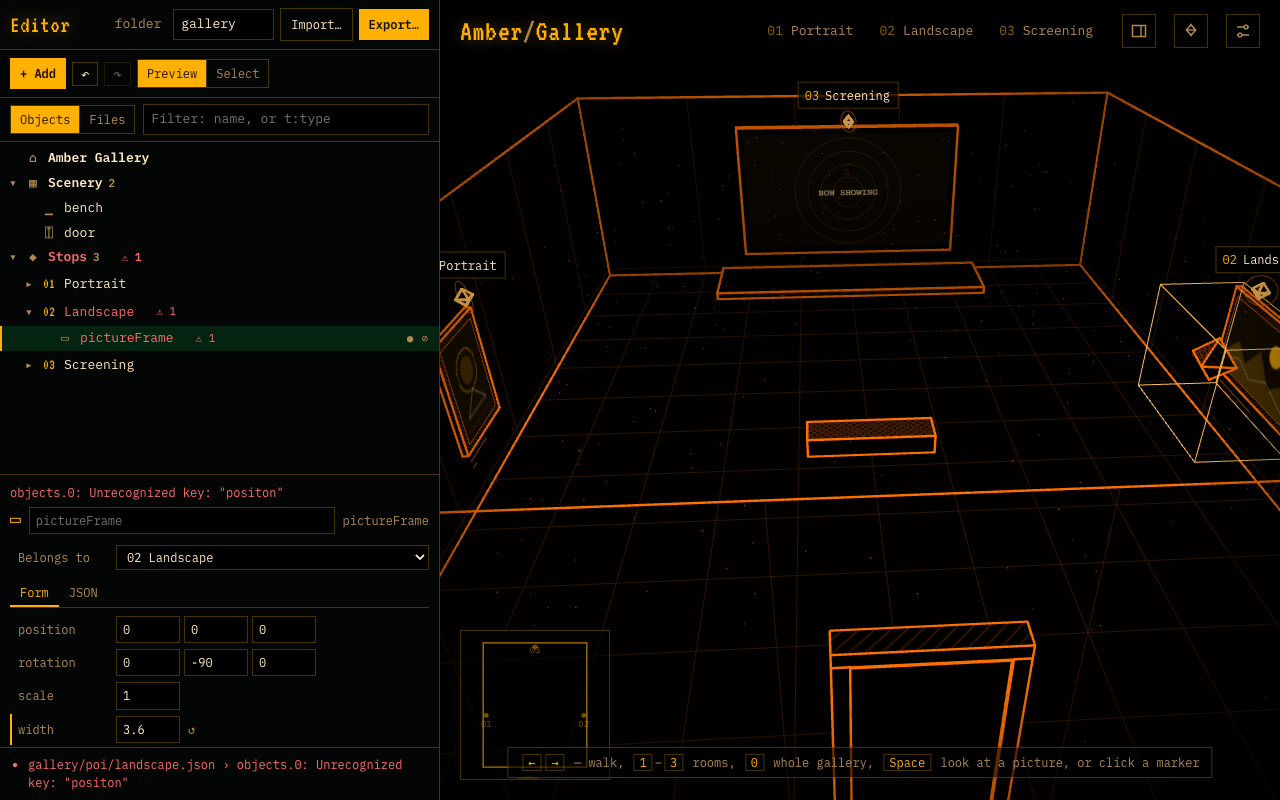
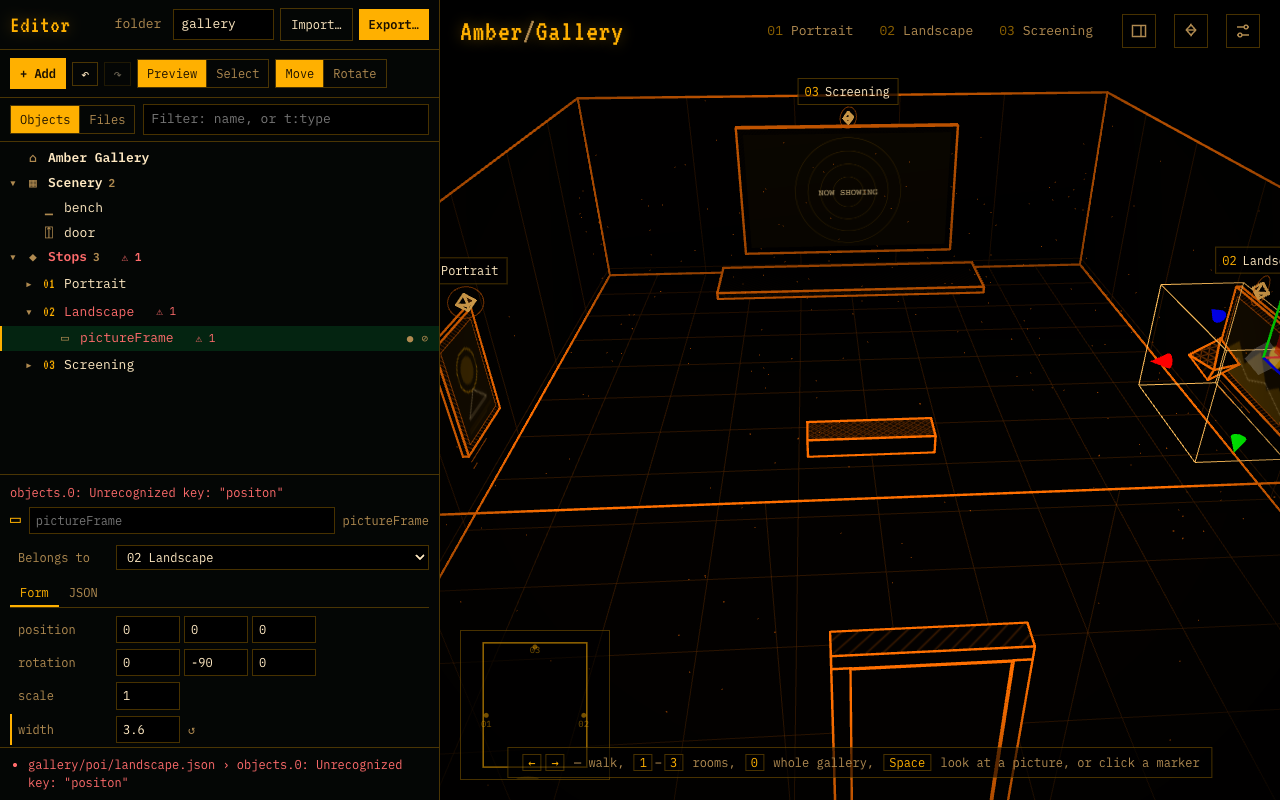
Add gizmo for moving objects around

diff --git a/src/scene/Gizmo.jsx b/src/scene/Gizmo.jsx
@@ -1,0 +1,103 @@
+import { useEffect, useMemo, useRef } from 'react';
+import { useFrame, useThree } from '@react-three/fiber';
+import * as THREE from 'three';
+import { TransformControls } from 'three/addons/controls/TransformControls.js';
+import { useStore, editGroups } from '../state/store.js';
+import { configRotation } from '../lib/math.js';
+
+const MOVE_SNAP = 0.1, TURN_SNAP = THREE.MathUtils.degToRad(15);
+const isObjectKey = k => typeof k === 'string' && !k.startsWith('stop:') && /:\d+$/.test(k);
+const r2 = v => { const n = Math.round(v * 100) / 100; return Object.is(n, -0) ? 0 : n; };
+
+/**
+ * The editor's handles on the selected object (three.js TransformControls): arrows and planes to move it along the
+ * room's axes, or rings to turn it (`edit.tool`, Move or Rotate). Moves snap to 10 cm and turns to 15°; Shift drags
+ * freely; Esc puts the object back mid-drag. On release the editor writes the new `position` / `rotation` into the
+ * object's file (`edit.transform`), one undo step. A drag on a handle never reaches the room: no selection, no
+ * swipe to another stop. Loaded only by the editor (src/scene/Experience.jsx), so the viewer's bundle has none of it.
+ */
+export function Gizmo() {
+  const { camera, gl } = useThree();
+  const selected = useStore(s => s.edit?.selected);
+  const tool = useStore(s => s.edit?.tool ?? 'move');
+  const zoomed = useStore(s => s.zoom != null);
+  const tc = useMemo(() => {
+    const t = new TransformControls(camera, gl.domElement);
+    t.setSpace('world');
+    t.setSize(0.9);
+    return t;
+  }, [camera, gl]);
+  const drag = useRef(null); // { key, position, rotation } at the start of a drag
+
+  useEffect(() => () => { tc.detach(); tc.dispose(); }, [tc]);
+  useEffect(() => { tc.setMode(tool === 'rotate' ? 'rotate' : 'translate'); }, [tc, tool]);
+
+  useEffect(() => {
+    const snap = free => { tc.setTranslationSnap(free ? null : MOVE_SNAP); tc.setRotationSnap(free ? null : TURN_SNAP); };
+    snap(false);
+    const onKey = e => {
+      if (e.key === 'Shift') snap(e.type === 'keydown');
+      else if (e.key === 'Escape' && e.type === 'keydown' && tc.dragging) { tc.reset(); tc.pointerUp(null); }
+    };
+    const onBlur = () => snap(false);
+    addEventListener('keydown', onKey);
+    addEventListener('keyup', onKey);
+    addEventListener('blur', onBlur);
+    return () => { removeEventListener('keydown', onKey); removeEventListener('keyup', onKey); removeEventListener('blur', onBlur); };
+  }, [tc]);
+
+  // a press on a handle is the gizmo's alone: TransformControls listens on the canvas itself, and these run after it there,
+  // so they can keep the press, its release and its click from the room's own handlers further up (R3F, swipes)
+  useEffect(() => {
+    const el = gl.domElement;
+    let busy = false;
+    const down = e => { if (tc.dragging) { busy = true; e.stopPropagation(); } };
+    const up = e => { if (busy) e.stopPropagation(); };
+    const click = e => { if (busy) { busy = false; e.stopPropagation(); } };
+    const hover = () => { if (tc.axis && !tc.dragging) document.body.style.cursor = 'grab'; };
+    el.addEventListener('pointerdown', down);
+    el.addEventListener('pointerup', up);
+    el.addEventListener('click', click);
+    el.addEventListener('pointermove', hover);
+    return () => {
+      el.removeEventListener('pointerdown', down);
+      el.removeEventListener('pointerup', up);
+      el.removeEventListener('click', click);
+      el.removeEventListener('pointermove', hover);
+    };
+  }, [tc, gl]);
+
+  useEffect(() => {
+    const onDown = () => {
+      const g = tc.object;
+      drag.current = g && { key: useStore.getState().edit?.selected, position: g.position.clone(), rotation: g.rotation.clone() };
+      document.body.style.cursor = 'grabbing';
+    };
+    const onUp = () => {
+      document.body.style.cursor = '';
+      const g = tc.object, start = drag.current;
+      drag.current = null;
+      if (!g || !start) return;
+      const moved = !g.position.equals(start.position), turned = !g.rotation.equals(start.rotation);
+      if (!moved && !turned) return;
+      const ok = useStore.getState().edit?.transform?.(start.key, {
+        position: moved ? g.position.toArray().map(r2) : undefined,
+        rotation: turned ? configRotation(g.rotation) : undefined,
+      });
+      // the file could not take it (it does not parse): the object goes back to what the file says
+      if (ok === false) { g.position.copy(start.position); g.rotation.copy(start.rotation); }
+    };
+    tc.addEventListener('mouseDown', onDown);
+    tc.addEventListener('mouseUp', onUp);
+    return () => { tc.removeEventListener('mouseDown', onDown); tc.removeEventListener('mouseUp', onUp); };
+  }, [tc]);
+
+  // follow the selection: the object's group can be replaced when the scene is rebuilt
+  useFrame(() => {
+    const g = !zoomed && isObjectKey(selected) ? editGroups.get(selected) : undefined;
+    if (g === tc.object || tc.dragging) return;
+    if (g) tc.attach(g); else tc.detach();
+  });
+
+  return <primitive object={tc.getHelper()} />;
+}

diff --git a/src/editor/EditorApp.jsx b/src/editor/EditorApp.jsx
@@ -14,7 +14,7 @@ import { readZip } from './unzip.js';
 import { makeZip } from './zip.js';
 import {
   DECOR, sceneTree, errorsByKey, parseKey, objectKey, stopKey, addToScenery, moveObject, makeStop, dissolveStop, deleteStop,
-  deleteObject, duplicateObject, moveStop, renameObject, renameNewStop, setField, stopRefs, viewSpot,
+  deleteObject, duplicateObject, moveStop, renameObject, renameNewStop, setField, setObjectField, stopRefs, viewSpot,
 } from './tree.js';
 import { Tree } from './Tree.jsx';
 import { Inspector } from './Inspector.jsx';
@@ -115,7 +115,12 @@ export function EditorApp() {
 
   // the editor's hold on the preview: selection, hover, hidden and locked objects, Preview / Select mode
   useEffect(() => {
-    useStore.setState({ edit: { mode: 'preview', selected: null, hovered: null, hidden: new Set(), locked: new Set(), frame } });
+    useStore.setState({
+      edit: {
+        mode: 'preview', tool: 'move', selected: null, hovered: null, hidden: new Set(), locked: new Set(), frame,
+        transform: (key, value) => keys.current.transform(key, value),
+      },
+    });
     return () => useStore.setState({ edit: null });
   }, []);
 
@@ -526,15 +531,29 @@ export function EditorApp() {
   const setMode = mode => { document.body.style.cursor = ''; useStore.getState().setEdit({ mode, hovered: null }); };
   const closeMenu = useCallback(() => setMenu(null), []);
 
-  // undo and redo anywhere on the page except while typing in a field, which has its own
-  const history = useRef(null);
-  history.current = { undo, redo };
+  const setTool = tool => useStore.getState().setEdit({ tool });
+  /** The handles in the room dropped an object: its new position and / or rotation, one undo step; false if the file refused. */
+  const transform = (key, { position, rotation }) => !!change(f => {
+    let next = f;
+    if (position) next = setObjectField(next, key, ['position'], position);
+    if (rotation) next = setObjectField(next, key, ['rotation'], rotation);
+    return { files: next, key };
+  });
+
+  // anywhere on the page except while typing in a field (which has its own undo) or in the tree (which takes letters):
+  // undo and redo, G to move and R to rotate with the handles
+  const keys = useRef(null);
+  keys.current = { undo, redo, transform };
   useEffect(() => {
     const onKey = e => {
       const tag = (e.target.tagName || '').toLowerCase();
-      if (tag === 'input' || tag === 'textarea' || tag === 'select' || !(e.metaKey || e.ctrlKey)) return;
+      if (tag === 'input' || tag === 'textarea' || tag === 'select') return;
       const k = e.key.toLowerCase();
-      if (k === 'z' && !e.shiftKey) { e.preventDefault(); history.current.undo(); } else if ((k === 'z' && e.shiftKey) || k === 'y') { e.preventDefault(); history.current.redo(); }
+      if (!(e.metaKey || e.ctrlKey)) {
+        if (!e.altKey && (k === 'g' || k === 'r')) useStore.getState().setEdit({ tool: k === 'g' ? 'move' : 'rotate' });
+        return;
+      }
+      if (k === 'z' && !e.shiftKey) { e.preventDefault(); keys.current.undo(); } else if ((k === 'z' && e.shiftKey) || k === 'y') { e.preventDefault(); keys.current.redo(); }
     };
     addEventListener('keydown', onKey);
     return () => removeEventListener('keydown', onKey);
@@ -588,8 +607,12 @@ export function EditorApp() {
             <button type="button" aria-pressed={edit?.mode !== 'select'} onClick={() => setMode('preview')} title="Clicks in the room work as for visitors: screens zoom, actions run">Preview</button>
             <button type="button" aria-pressed={edit?.mode === 'select'} onClick={() => setMode('select')} title="A click in the room selects the object under the pointer; a double-click flies to it">Select</button>
           </span>
+          <span className="seg" role="group" aria-label="What the handles on the selected object do">
+            <button type="button" aria-pressed={edit?.tool !== 'rotate'} onClick={() => setTool('move')} title="Arrows and squares on the selected object move it along the room's axes (G); Shift: no 10 cm steps">Move</button>
+            <button type="button" aria-pressed={edit?.tool === 'rotate'} onClick={() => setTool('rotate')} title="Rings on the selected object turn it (R); Shift: no 15° steps">Rotate</button>
+          </span>
           {(Object.keys(registry.extra).length > 0 || hasTransforms) && (
-            <button type="button" className="btn ghost" onClick={() => setBust(b => b + 1)} title="Import the scene's prefab and transform modules again">Reload modules</button>
+            <button type="button" className="btn ghost icon" onClick={() => setBust(b => b + 1)} title="Reload modules: import the scene's prefab and transform modules again" aria-label="Reload modules">⟳</button>
           )}
         </div>
         <div className="editor-tabs">

diff --git a/test/math.test.js b/test/math.test.js
@@ -1,6 +1,6 @@
 import { describe, it, expect } from 'vitest';
 import * as THREE from 'three';
-import { DEG, toRad, objectMatrix, circlePts, rgba } from '../src/lib/math.js';
+import { DEG, toRad, objectMatrix, circlePts, rgba, configRotation } from '../src/lib/math.js';
 
 describe('toRad', () => {
   it('converts a degree triple', () => {
@@ -40,5 +40,27 @@ describe('circlePts', () => {
 describe('rgba', () => {
   it('turns a hex colour and alpha into an rgba() string', () => {
     expect(rgba('#00ff66', 0.28)).toBe('rgba(0,255,102,0.28)');
+  });
+});
+
+describe('configRotation', () => {
+  const back = r => configRotation(new THREE.Euler().setFromQuaternion(new THREE.Quaternion().setFromEuler(new THREE.Euler(...toRad(r)))));
+
+  it('gives a yaw past 90° as a plain yaw, not with 180° tilts', () => {
+    expect(back([0, 150, 0])).toEqual([0, 150, 0]);
+    expect(back([0, -135, 0])).toEqual([0, -135, 0]);
+    expect(back([0, 180, 0])).toEqual([0, 180, 0]);
+    expect(configRotation({ x: Math.PI, y: 30 * DEG, z: Math.PI })).toEqual([0, 150, 0]);
+  });
+
+  it('keeps small rotations and tilts as they are, rounded, without -0', () => {
+    expect(back([0, -90, 0])).toEqual([0, -90, 0]);
+    expect(back([10, 20, 5])).toEqual([10, 20, 5]);
+    expect(configRotation({ x: -1e-9, y: 0, z: 0 })).toEqual([0, 0, 0]);
+  });
+
+  it('describes the same orientation', () => {
+    const q = r => new THREE.Quaternion().setFromEuler(new THREE.Euler(...toRad(r)));
+    for (const r of [[20, 170, -10], [0, 100, 30], [-45, -120, 0]]) expect(q(back(r)).angleTo(q(r))).toBeLessThan(0.01);
   });
 });

diff --git a/src/state/store.js b/src/state/store.js
@@ -41,9 +41,11 @@ export const useStore = create((set, get) => ({
   free: false,     // the visitor is flying the camera by hand (WASD, middle-drag); any navigation ends it
   confirm: null,   // an `openUrl` action waiting for the visitor's yes (the same object the scene binds, so a prefab can tell it is its own)
   /**
-   * The editor's hold on the preview; null in the viewer. `{ mode: 'preview' | 'select', selected, hovered, hidden, locked,
-   * frame(key) }`: in select mode a click picks the object under the pointer (its tree key, src/editor/tree.js) instead of
-   * zooming or running its actions; hidden objects are not drawn, locked ones let the click through to what is behind.
+   * The editor's hold on the preview; null in the viewer. `{ mode: 'preview' | 'select', tool: 'move' | 'rotate', selected,
+   * hovered, hidden, locked, frame(key), transform(key, { position?, rotation? }) }`: in select mode a click picks the object
+   * under the pointer (its tree key, src/editor/tree.js) instead of zooming or running its actions; hidden objects are not
+   * drawn, locked ones let the click through to what is behind; the selected object gets move or rotate handles
+   * (src/scene/Gizmo.jsx), whose result `transform` writes into the files (false when it could not).
    */
   edit: null,
 

diff --git a/src/scene/Experience.jsx b/src/scene/Experience.jsx
@@ -1,4 +1,4 @@
-import { useEffect, useMemo, useRef } from 'react';
+import { Suspense, lazy, useEffect, useMemo, useRef } from 'react';
 import { useFrame } from '@react-three/fiber';
 import { useStore } from '../state/store.js';
 import { WorldContext, PoiContext } from './core.jsx';
@@ -11,6 +11,9 @@ import { Telemetry } from './Telemetry.jsx';
 import { Markers } from './Markers.jsx';
 import { PlacedObject } from '../prefabs/index.jsx';
 import { EditMarks } from './EditMarks.jsx';
+
+// the editor's move / rotate handles, in a chunk of their own that only the editor loads
+const Gizmo = lazy(() => import('./Gizmo.jsx').then(m => ({ default: m.Gizmo })));
 
 /** Shader time + Matrix-rain refresh (captioned with the current POI). */
 function Ticker({ world }) {
@@ -64,6 +67,7 @@ export function Experience() {
       {pois.map(p => <PoiObjects key={p.id} poi={p} />)}
       <Markers />
       {editing && <EditMarks />}
+      {editing && <Suspense fallback={null}><Gizmo /></Suspense>}
       <Particles count={Math.round(scene.effects.particles * particles)} />
     </WorldContext.Provider>
   );

diff --git a/src/lib/math.js b/src/lib/math.js
@@ -13,6 +13,21 @@ export function objectMatrix({ position = [0, 0, 0], rotation = [0, 0, 0], scale
   );
 }
 
+const wrap = d => { const v = ((d + 180) % 360 + 360) % 360 - 180; return v === -180 ? 180 : v; };
+const tidy = d => { const v = Math.round(d * 10) / 10; return Object.is(v, -0) ? 0 : v; };
+
+/**
+ * A config rotation (degrees, XYZ) from an Euler in radians, in the form an author would write. Every rotation has two
+ * XYZ triples, (x, y, z) and (x + 180, 180 - y, z + 180); three.js gives the one with y within ±90, so an object turned
+ * to 150° comes back as [180, 30, 180]. This picks the triple with the smaller tilts, [0, 150, 0], rounded to 0.1°.
+ */
+export function configRotation({ x, y, z }) {
+  const a = [x / DEG, y / DEG, z / DEG].map(wrap);
+  const b = [wrap(a[0] + 180), wrap(180 - a[1]), wrap(a[2] + 180)];
+  const tilt = r => Math.abs(r[0]) + Math.abs(r[2]);
+  return (tilt(b) < tilt(a) - 1e-6 ? b : a).map(tidy);
+}
+
 /** Flat list of segment endpoints for a circle in the XZ plane. */
 export function circlePts(r, n, y = 0) {
   const a = [];

diff --git a/docs/guide/operator/deploy/editor.md b/docs/guide/operator/deploy/editor.md
@@ -15,6 +15,7 @@ This page explains the second page of the build, `edit.html`, and the publish fl
 | Inspector | `Inspector.jsx`, `form.js` | an object's form is generated from its prefab's zod schema (`propFields`: numbers, booleans, strings, enums; nested values and unions as JSON); a prop that differs from the default is marked and can be removed (back to the default). A JSON tab edits the object's own text. A stop's label, kicker, camera (`runtime.pose`) and marker; the room's title, brand and size |
 | Text edits | `src/editor/jsonEdit.js` | the tree and the form edit JSON through `parseTree` from `jsonc-parser`, splicing only the node they change: a replaced value keeps its old shape (one line or spread out), a new item or property follows its neighbours, and a moved object keeps its own layout, re-indented. A file that does not parse is refused with "fix it in Files first" |
 | Preview link | `useStore › edit`, `src/prefabs/index.jsx`, `src/scene/EditMarks.jsx` | the editor sets `edit` in the store (null in the viewer): `mode` (`preview` / `select`), `selected`, `hovered`, `hidden`, `locked`, `frame(key)`. Every `PlacedObject` carries its tree key; hidden ones are not drawn; in select mode a click on a surface (not a line) selects it, a locked one lets the click through, and `useHotspot` and screens stop reacting. `EditMarks` draws a box (`Box3Helper`, over everything) around the selection and the hovered object |
+| Handles in the room | `src/scene/Gizmo.jsx`, `configRotation` in `src/lib/math.js` | three.js `TransformControls` attached to the selected object's group (`editGroups`), in world space, `edit.tool` move or rotate (G / R), snapping 0.1 m and 15° unless Shift is held, Esc resets mid-drag. Listeners on the canvas, after the controls' own, stop a press on a handle from reaching R3F (no selection, no `onPointerMissed`) and `useInput` (no swipe). On release `edit.transform(key, { position?, rotation? })` writes the changed fields with `setObjectField`, one undo step; the rotation goes through `configRotation`, which picks the XYZ triple with the smaller tilts (`[0, 150, 0]`, not three.js's `[180, 30, 180]`). Loaded with `lazy()` from `Experience.jsx`, so only the editor fetches it |
 | Import… | `src/editor/unzip.js`, `importZip` in `export.js` | a zip (stored or deflated entries, read with `DecompressionStream`, no dependency) holding a scene folder, a whole site (`scenes/index.json` names the scene) or a bare `scene.json`: the text files go into the Map, every other file under the folder is held in memory as bytes plus an object URL, and `resolveUrl` prefers those URLs over the published folder, so media and even prefab modules load from memory (`import()` of a `blob:` URL; its origin is the page's, so `guardOrigin` passes). Loose media files land under `media/` the same way |
 | Export… | `src/editor/export.js`, `zip.js`, `tools/viewer-bundle.js` | two zips (stored, no compression): the **scene folder** (`<folder>/…`) or a **whole site** (the viewer's files, `scenes/index.json` naming this one scene, `scenes/<folder>/…`). Both hold the text files plus every file they refer to by a relative path (prefab and transform modules, media props, local feeds, fenced feed blocks) and every imported file, from memory first, else fetched from the published folder. The section also sets the scene's `camera.freeFly` and `camera.start` (a stop, or the pose of the preview's camera from `runtime.pose`), by rewriting `scene.json` |
 
@@ -40,7 +41,7 @@ The other route, for a scene that gets a host of its own: **Export…**, set *Al
 
 ## Limits of this first editor
 
-- Objects are placed by numbers in the inspector (or where the camera looks when added); there is no move or rotate handle in the room yet, and no multiple selection. Hidden and locked marks are not saved, and they follow objects through the tree's own moves but not through edits typed in Files.
+- One object at a time: no multiple selection, no handles for a whole stop, and no scale handle (scale is in the inspector). The handles move along the room's axes, not the object's own. Hidden and locked marks are not saved, and they follow objects through the tree's own moves but not through edits typed in Files.
 - The form covers each prop's top level; nested settings (a screen config, a list of screens) and `actions` are edited as JSON. Content blocks (`content.blocks`) have no form yet; `src/ui/blocks/schema.js` carries what one would need.
 - Media are imported into memory, not uploaded anywhere: they travel in the exported zip. The browser holds them, so a very large video makes the page heavy; the zip is built in memory too (no ZIP64, so under 4 GB).
 - No server: the export is the hand-off. A hosted flow would `PUT` the same files to a bucket and append to `index.json`.

diff --git a/docs/guide/user/editor.md b/docs/guide/user/editor.md
@@ -6,9 +6,9 @@ This page shows how to build a scene without touching the repository: arrange it
 
 Open `edit.html` next to the app, for example `http://localhost:5173/edit.html`. Add `?scene=gallery` to start from an existing scene instead of the one-stop template.
 
-![The editor: a left pane with the folder name, Import… and Export… at the top, then + Add, undo and redo, Preview and Select; below them Objects and Files tabs and a filter box; the scene tree with the room, the scenery (bench, door) and three stops, the Landscape stop opened and its pictureFrame selected; under the tree the inspector with Belongs to, position, rotation, scale, width and height; the Amber Gallery room on the right with a box around the selected frame](images/editor.png)
+![The editor: a left pane with the folder name, Import… and Export… at the top, then + Add, undo and redo, Preview and Select, Move and Rotate; below them Objects and Files tabs and a filter box; the scene tree with the room, the scenery (bench, door) and three stops, the bench selected and the Landscape stop opened to show its pictureFrame; under the tree the inspector with Belongs to, position, rotation, scale, width and height; the Amber Gallery room on the right, the bench in a box with red, green and blue move arrows on it](images/editor.png)
 
-*The editor opened with `?scene=gallery`. Left: the scene tree with the selected object's settings under it; right: the live room, with a box around what is selected.*
+*The editor opened with `?scene=gallery`. Left: the scene tree with the selected object's settings under it; right: the live room, with a box and move handles on what is selected.*
 
 The pane has two views of the same scene: **Objects**, a tree of what is in the room, and **Files**, the scene's files as text. Whatever you change in one shows in the other, and the room on the right follows a moment later. The usual keys work in the room (`1`–`9`, `0`, `H`, `M`, `Esc`); the scroll wheel scrolls the editor when the mouse is over it. `⌘Z` / `Ctrl+Z` undoes the last change and `⇧⌘Z` / `Ctrl+Y` redoes it (also with the ↶ ↷ buttons).
 
@@ -42,7 +42,21 @@ The filter box above the tree narrows it to matching names; `t:desk` shows only 
 | `Alt+↑` `Alt+↓` | move a stop earlier or later in the tour, or an object within its list |
 | `H` | hide or show in the preview |
 
+With the room (or nothing) focused, `G` and `R` switch the handles between Move and Rotate.
+
 Right-click a row for the same commands and a few more: **Show only this stop**, **Lock all scenery**, **Edit page**.
+
+## Move and turn objects in the room
+
+The selected object carries handles in the room, in the colours of the room's directions: red left and right (x), green up and down (y), blue towards and away from the front (z).
+
+| Handle | Does |
+| --- | --- |
+| **Move** (or press `G`): an arrow | drag it to slide the object along that direction |
+| **Move**: a small square between two arrows | drag it to slide the object across that plane, for example over the floor |
+| **Rotate** (or press `R`): a ring | drag it to turn the object around that direction; the green ring turns it to face another way |
+
+Moves go in steps of 10 cm and turns in steps of 15°; hold `Shift` while dragging to go freely. `Esc` during a drag puts the object back. When you let go, the new position or rotation is written into the object's file (the numbers in its settings follow), and `⌘Z` / `Ctrl+Z` takes it back. Dragging a handle never selects anything else or moves the camera to another stop. The handles work in Preview and in Select; they are not shown for a whole stop, or while you are up close to a screen.
 
 ## Add an object, then decide what it is
 

diff --git a/docs/guide/tester/running/what-is-tested-where.md b/docs/guide/tester/running/what-is-tested-where.md
@@ -17,7 +17,7 @@ This page maps each area of the product to the check that covers it today and na
 | Camera and transitions | `src/scene/CameraRig.jsx` | explore | everything; motion is checked only by eye |
 | Input | `src/ui/useInput.js` | explore | everything |
 | Editor: templates, zip, import, export | `src/editor/bundle.js`, `zip.js`, `unzip.js`, `export.js` | `test/editor.test.js` (CRC-32, zip layout, every prefab's template as scenery and as a stop, scene registry); `test/unzip.test.js` (stored and deflated entries, UTF-8 names, damaged input); `test/export.test.js` (options in `scene.json`, referenced files of the shipped `cinema` and `neo-room`, fenced feeds, folder and site layout, `importZip` on site, folder and bare zips) | `fetchBundle`, `fetchBytes`, object URLs and `EditorApp` itself: explore ([Editor: export a site](../exploring/exploratory.md#editor-export-a-site)) |
-| Editor: scene tree, inspector, JSON edits | `src/editor/tree.js`, `jsonEdit.js`, `form.js`, `Tree.jsx`, `Inspector.jsx`, `AddMenu.jsx`, `Menus.jsx`, `src/scene/EditMarks.jsx` | `test/tree.test.js` (layout-keeping edits; the tree of the shipped `cinema`; error lines to nodes; add, make a stop and back with each step built; naming a new stop; moves keeping an object's text; dissolve, delete, duplicate, reorder; references to a stop; where new objects land); `test/form.test.js` (fields from every built-in schema) | the React components, drag and drop, keyboard, picking in the room and the selection box: explore ([Editor: scene tree](../exploring/exploratory.md#editor-scene-tree)) |
+| Editor: scene tree, inspector, JSON edits | `src/editor/tree.js`, `jsonEdit.js`, `form.js`, `Tree.jsx`, `Inspector.jsx`, `AddMenu.jsx`, `Menus.jsx`, `src/scene/EditMarks.jsx`, `Gizmo.jsx` | `test/tree.test.js` (layout-keeping edits; the tree of the shipped `cinema`; error lines to nodes; add, make a stop and back with each step built; naming a new stop; moves keeping an object's text; dissolve, delete, duplicate, reorder; references to a stop; where new objects land); `test/form.test.js` (fields from every built-in schema); `test/math.test.js` (`configRotation`: plain yaws past 90°, same orientation) | the React components, drag and drop, keyboard, picking in the room, the selection box and the move / rotate handles: explore ([Editor: scene tree](../exploring/exploratory.md#editor-scene-tree)) |
 | Viewer file list | `tools/viewer-bundle.js` | `test/viewerBundle.test.js` (`viewerFiles` filter, `writeManifest`) | the `/__viewer` dev middleware and the on-demand build: explore |
 | Panel and blocks | `src/ui/Panel.jsx`, `Markdown.jsx`, `blocks/` | step 3 | form `action` POST path |
 | Labels, minimap, progress | `src/ui/Labels.jsx`, `Minimap.jsx`, `Overlays.jsx` | explore | alignment of labels with diamonds |

diff --git a/docs/guide/tester/exploring/exploratory.md b/docs/guide/tester/exploring/exploratory.md
@@ -146,6 +146,11 @@ Open `/edit.html?scene=cinema` on the dev server.
 | Keyboard in the tree: `↓` `→` `←` `Home` `End`, a letter, `F2`, `Delete`, `⌘D`, `Alt+↑` | moves, opens and closes, jumps, renames, deletes (an Undo in the message), duplicates, reorders; the room never moves with these keys |
 | Right-click a stop › **Show only this stop** | everything else disappears from the preview until **Show everything** |
 | `/edit.html`, **+ Add** a desk, make it a stop | it builds; the desk does not land inside the start pedestal |
+| Select `seats 1`, drag the red arrow sideways | the seats slide along x in 10 cm steps; on release the position in its settings changes, `scene.json` changes only that line; the camera stays (no swipe to another stop) |
+| `R`, drag the green ring | the seats turn in 15° steps; past 90° the rotation reads `[0, -120, 0]`, not with 180° tilts; `⌘Z` twice undoes the turn, then the move |
+| Drag with `Shift` held; press `Esc` in the middle of a drag | free movement; the object jumps back and nothing is written |
+| In Select mode, click a handle without dragging, then click the floor | the first keeps the selection; the second clears it and the handles go |
+| Select a stop, or zoom into a screen | no handles |
 
 ## Editor: export a site
 
